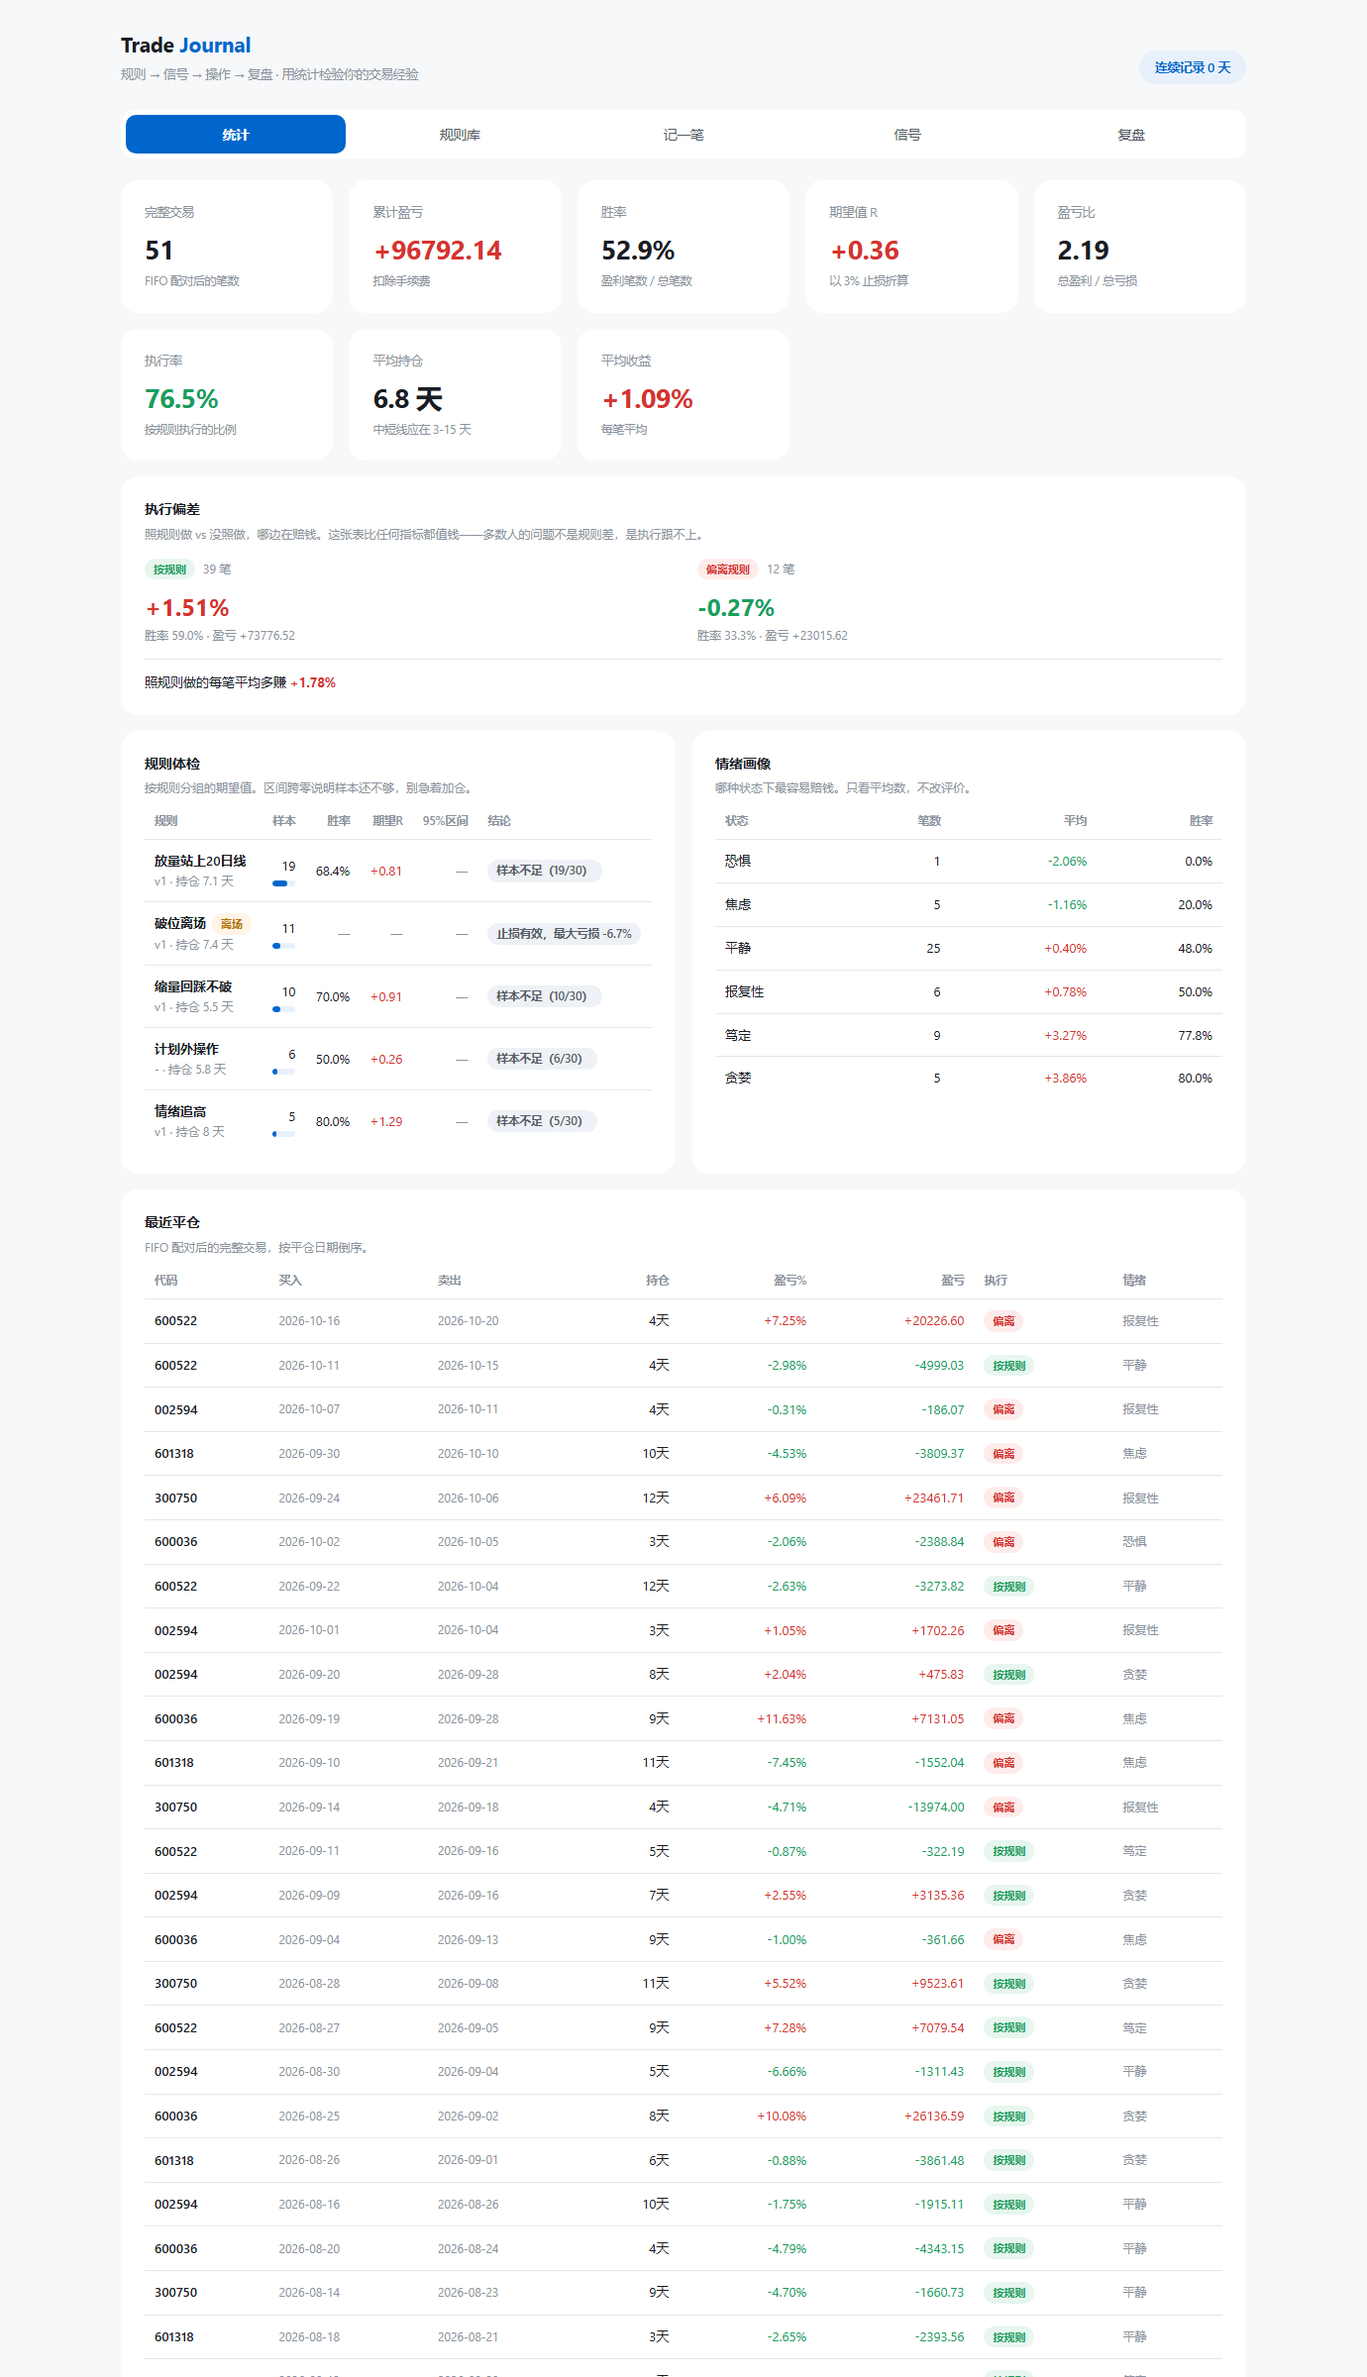
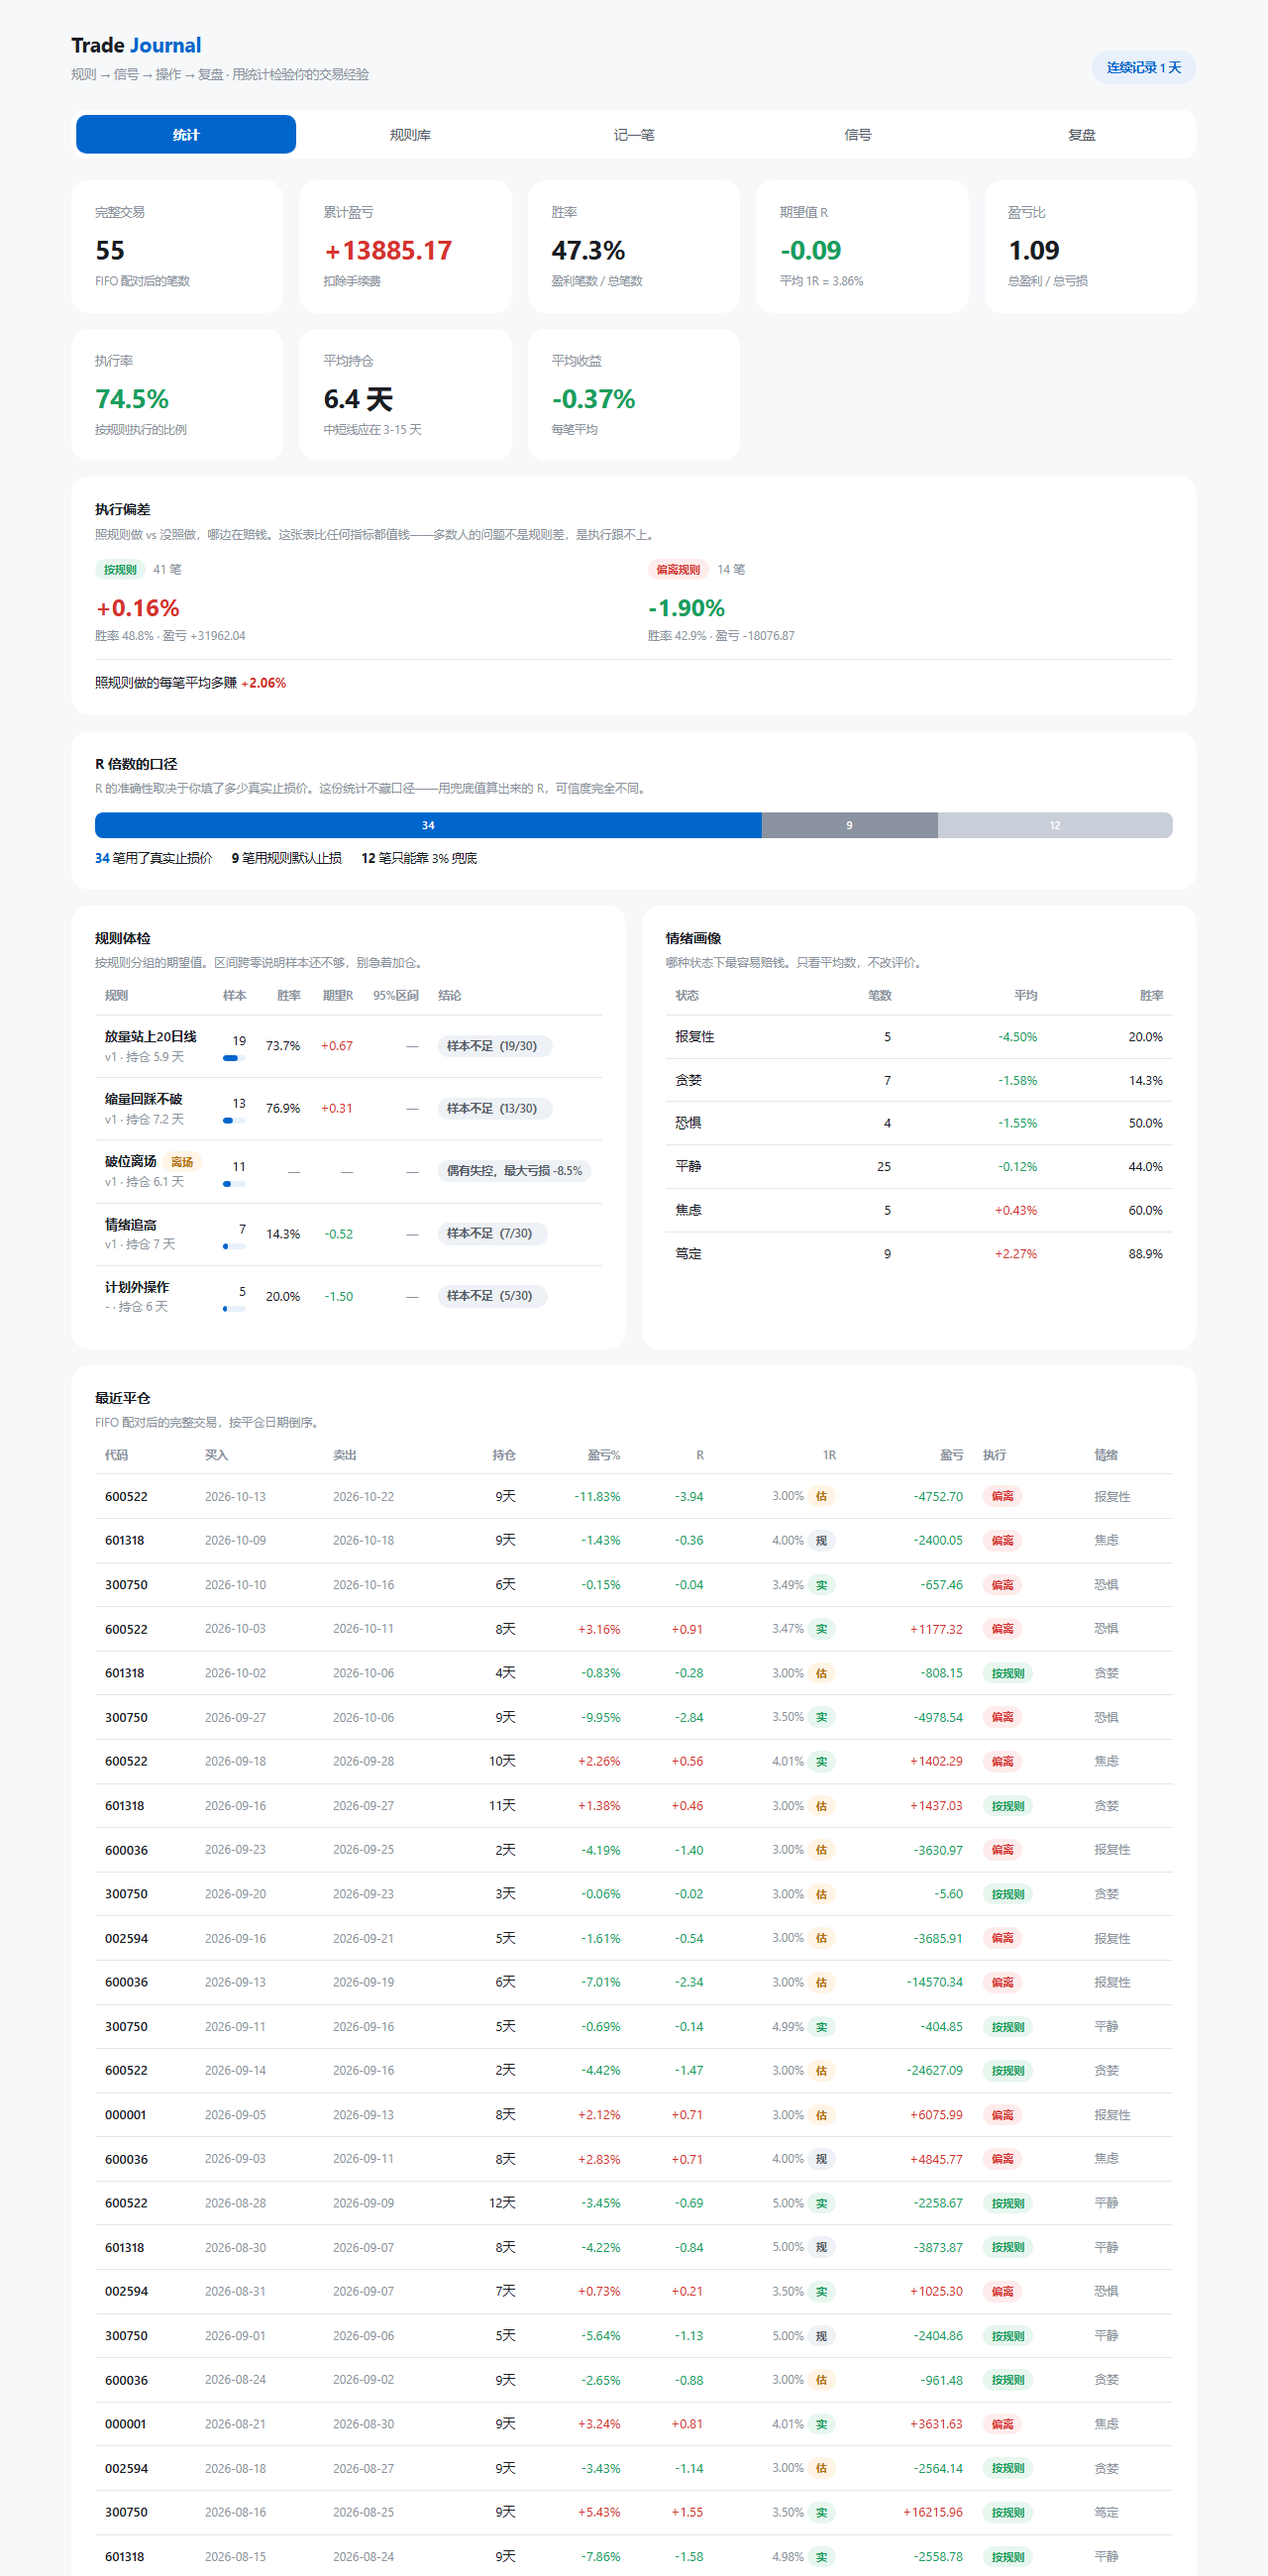
docs: 补充 R 口径与止损宽度的数学论证
新增一节说明止损放宽会同时惩罚分子和分母：
不仅亏得更多，同样的盈利折算出的 R 也更小。
这是「止损不能设太宽」的量化依据，不只是纪律说教。

diff --git a/README.md b/README.md
@@ -49,6 +49,14 @@
 止损规则天然接近 0% 胜率，因为它就是用来认亏的。用入场标准去评价它，会得出「这条规则很烂」的荒谬结论。
 系统对 `exit` / `risk` 类规则改用「最大亏损是否被截断」作为判定口径。
 
+### 5. R 倍数必须有真实止损作分母
+
+同样是赚 10%：止损 2% 是 5R，止损 20% 只有 0.5R。**止损设得越宽，同样的盈利越不值钱**，这也是止损不能随便放宽的数学原因。
+
+所以每笔买入都可以填真实止损价，规则上也能配默认止损幅度。两者都没有时退回 3% 兜底——但界面会把这类样本单独标出来，告诉你「这些 R 不可全信」，而不是藏起来给你一个漂亮的期望值。
+
+「最近平仓」表里有独立的 R 列，每笔都标注了分母来源：`实`（真实止损价）/ `规`（规则默认）/ `估`（3% 兜底）。首页还有一条口径进度条，显示这三个来源各占多少。
+
 ## 快速开始
 
 需要 Python 3.10+。
@@ -127,10 +135,10 @@ docs/              设计说明
 
 ## 已知局限
 
-- **R 倍数用固定 3% 止损折算**，是近似值。真实 R 需要记录止损价，计划在 rules 表加字段
 - **没有行情接口**，行情快照需要手工或外部脚本提供（数据源接入是下一版的事）
 - **FIFO 配对不区分加仓意图**，同一只票多次建仓会被视为连续仓位
 - **不做显著性检验**，这是有意的保守选择
+- **R 倍数依赖止损价的填写质量**，没填的会退回规则默认或 3% 兜底，口径透明度面板会如实显示比例
 
 ## 测试
 
@@ -138,7 +146,7 @@ docs/              设计说明
 pytest
 ```
 
-65 个测试覆盖：规则解析边界与注入尝试、FIFO 配对（含部分卖出、跨批次、多股票隔离）、统计聚合、离场规则口径、API 全链路。
+83 个测试覆盖：规则解析边界与注入尝试、FIFO 配对（含部分卖出、跨批次、多股票隔离）、统计聚合、离场规则口径、R 倍数三种分母来源及其边界（止损填反、过窄、越界）、旧库迁移、API 全链路。
 
 ## License
 
